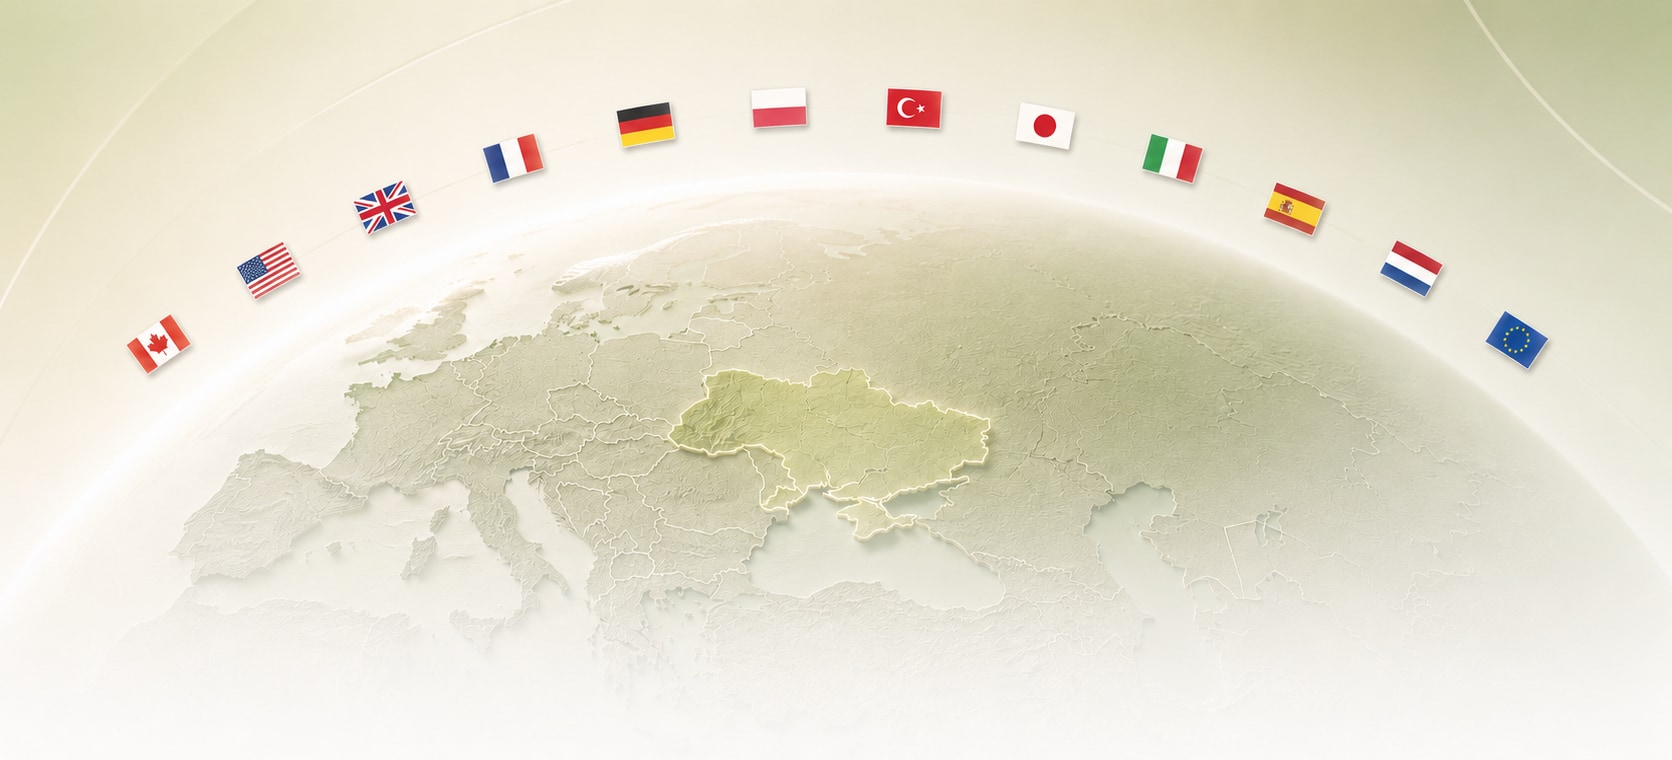
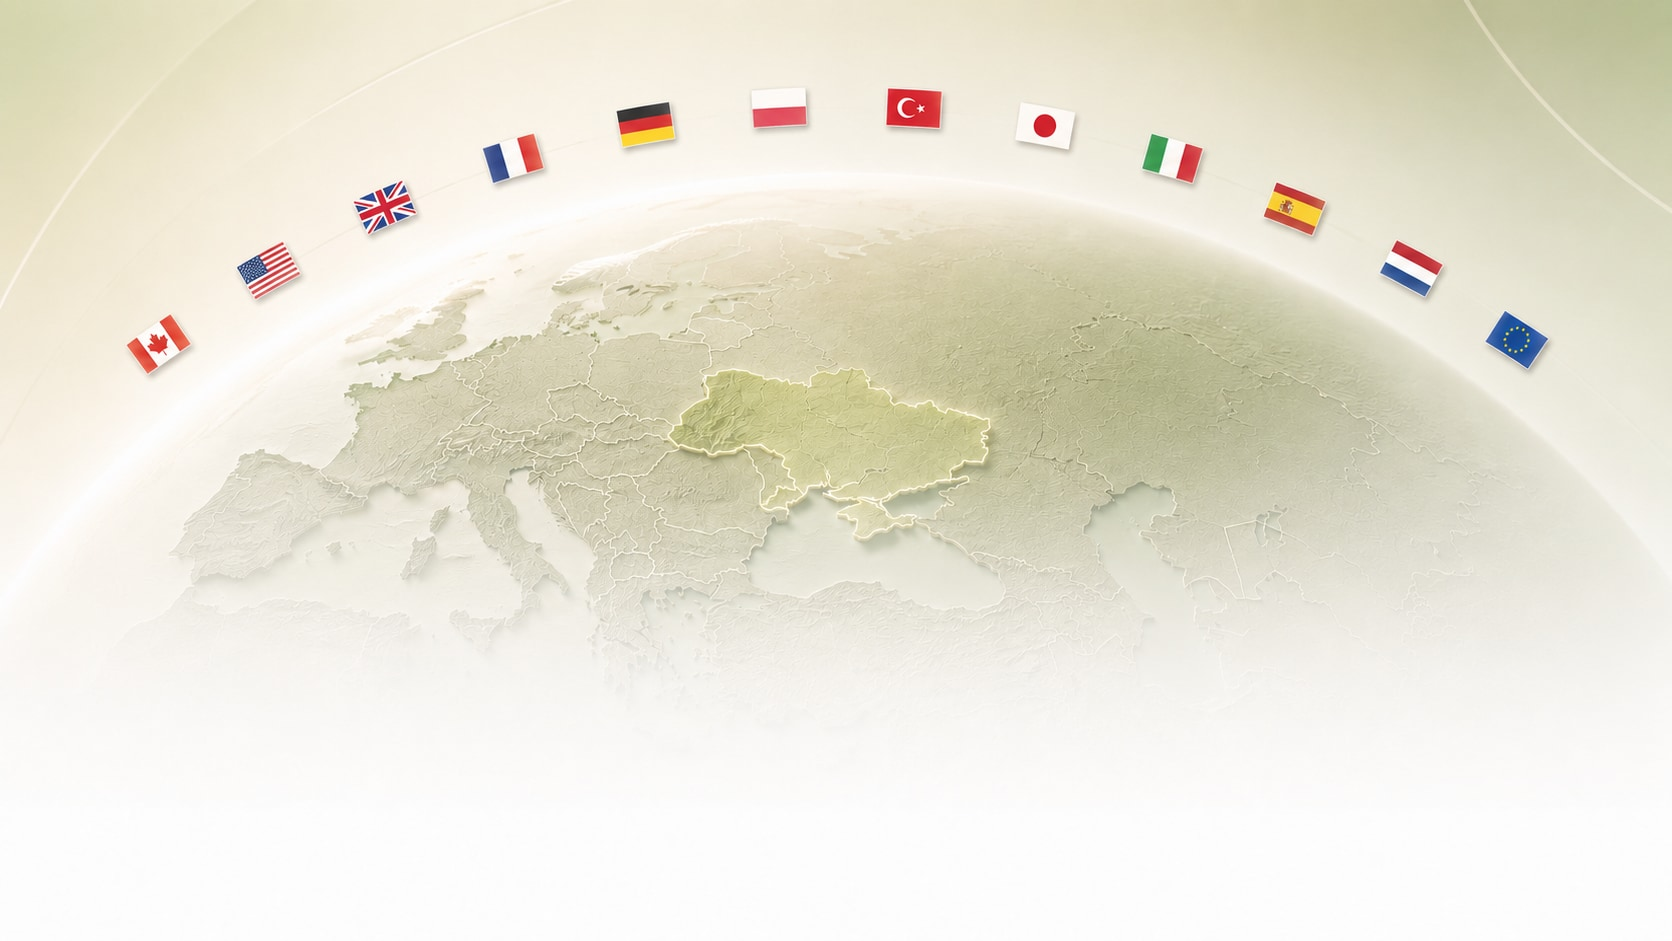
Заголовок «Про нас» накладено на банер, знято верхній відступ
Банер починається одразу під шапкою; заголовок лягає на нижню частину
зображення, де воно майже біле (яскравість 240-255), тож контраст із
темним текстом достатній.

Повернуто повний кадр 1672x941 — раніше обрізаний низ тепер потрібен
як поле під текст.

Нижче 900px банер закороткий для накладання, тому текст лишається під ним.

Claude-Session: https://claude.ai/code/session_0154L7r1tvjFE8rTWUGx1arc

diff --git a/src/styles.css b/src/styles.css
@@ -823,10 +823,23 @@ main > section,
   grid-template-columns: 1fr;
   gap: clamp(28px, 4vw, 48px);
   padding-inline: 0;
+  padding-top: 0;
 }
 .about-hero > div {
   text-align: center;
   padding-inline: max(var(--gutter), calc((100% - var(--container)) / 2));
+}
+/* На широких екранах заголовок лягає на нижню частину банера — там
+   зображення майже біле (яскравість 240-255), тож темний текст читкий.
+   Нижче 900px банер закороткий для накладання, тому текст іде під ним. */
+@media (min-width: 900px) {
+  .about-hero { gap: 0; }
+  .about-hero img { grid-area: 1 / 1; }
+  .about-hero > div {
+    grid-area: 1 / 1;
+    align-self: end;
+    padding-bottom: clamp(20px, 3.5vw, 48px);
+  }
 }
 .about-hero h1 { color: var(--ink); max-width: 24ch; margin-inline: auto; }
 .about-hero .lead {
